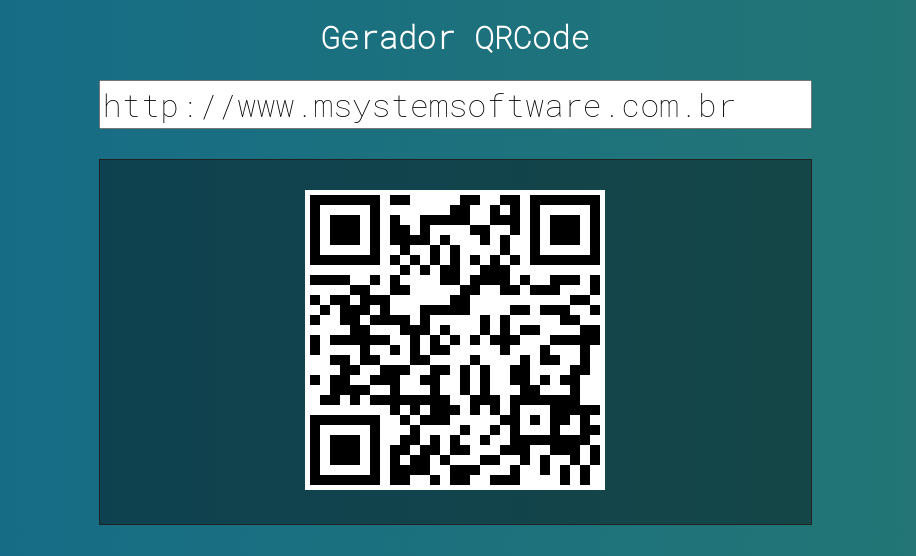
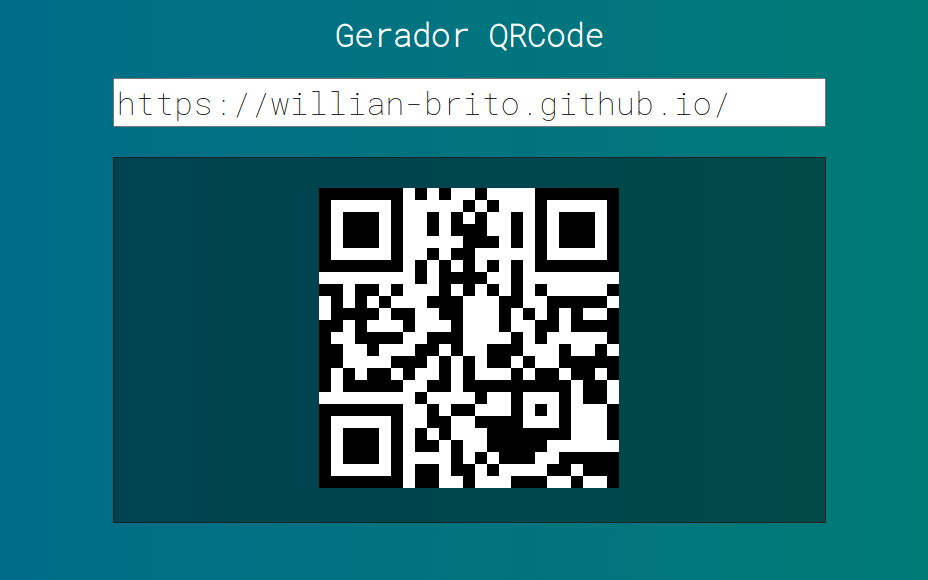
Adicionando nova URL padrão

diff --git a/index.html b/index.html
@@ -28,7 +28,7 @@
             el: "#app",
             data: {
                 title: 'Gerador QRCode',
-                text: 'http://www.msystemsoftware.com.br',
+                text: 'https://willian-brito.github.io/',
                 qrcode: new QRious({size: 300})
             },
             computed: {
